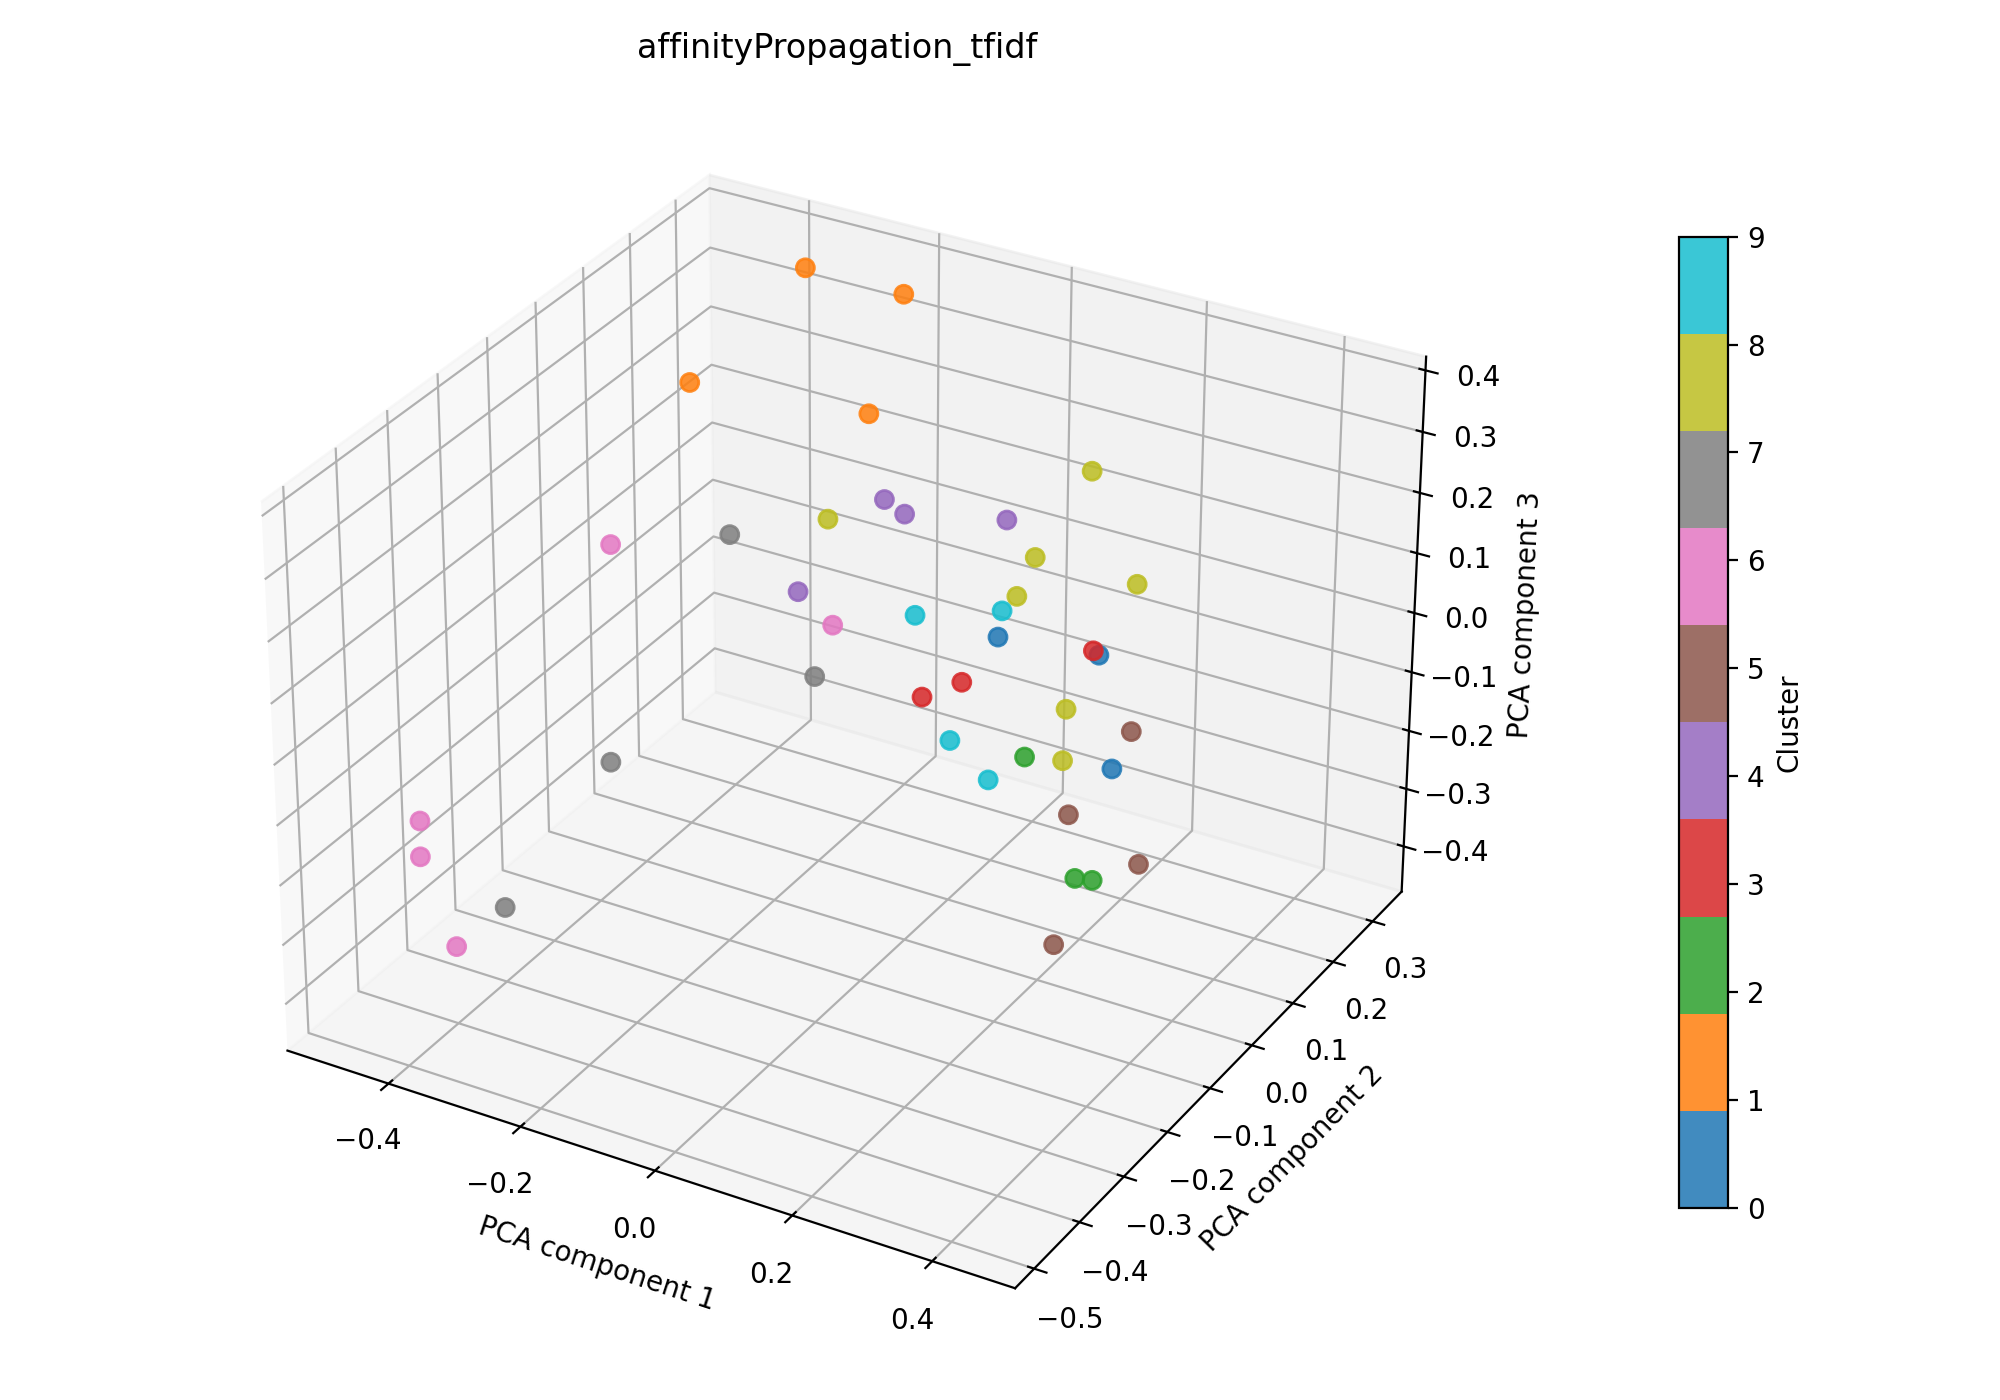
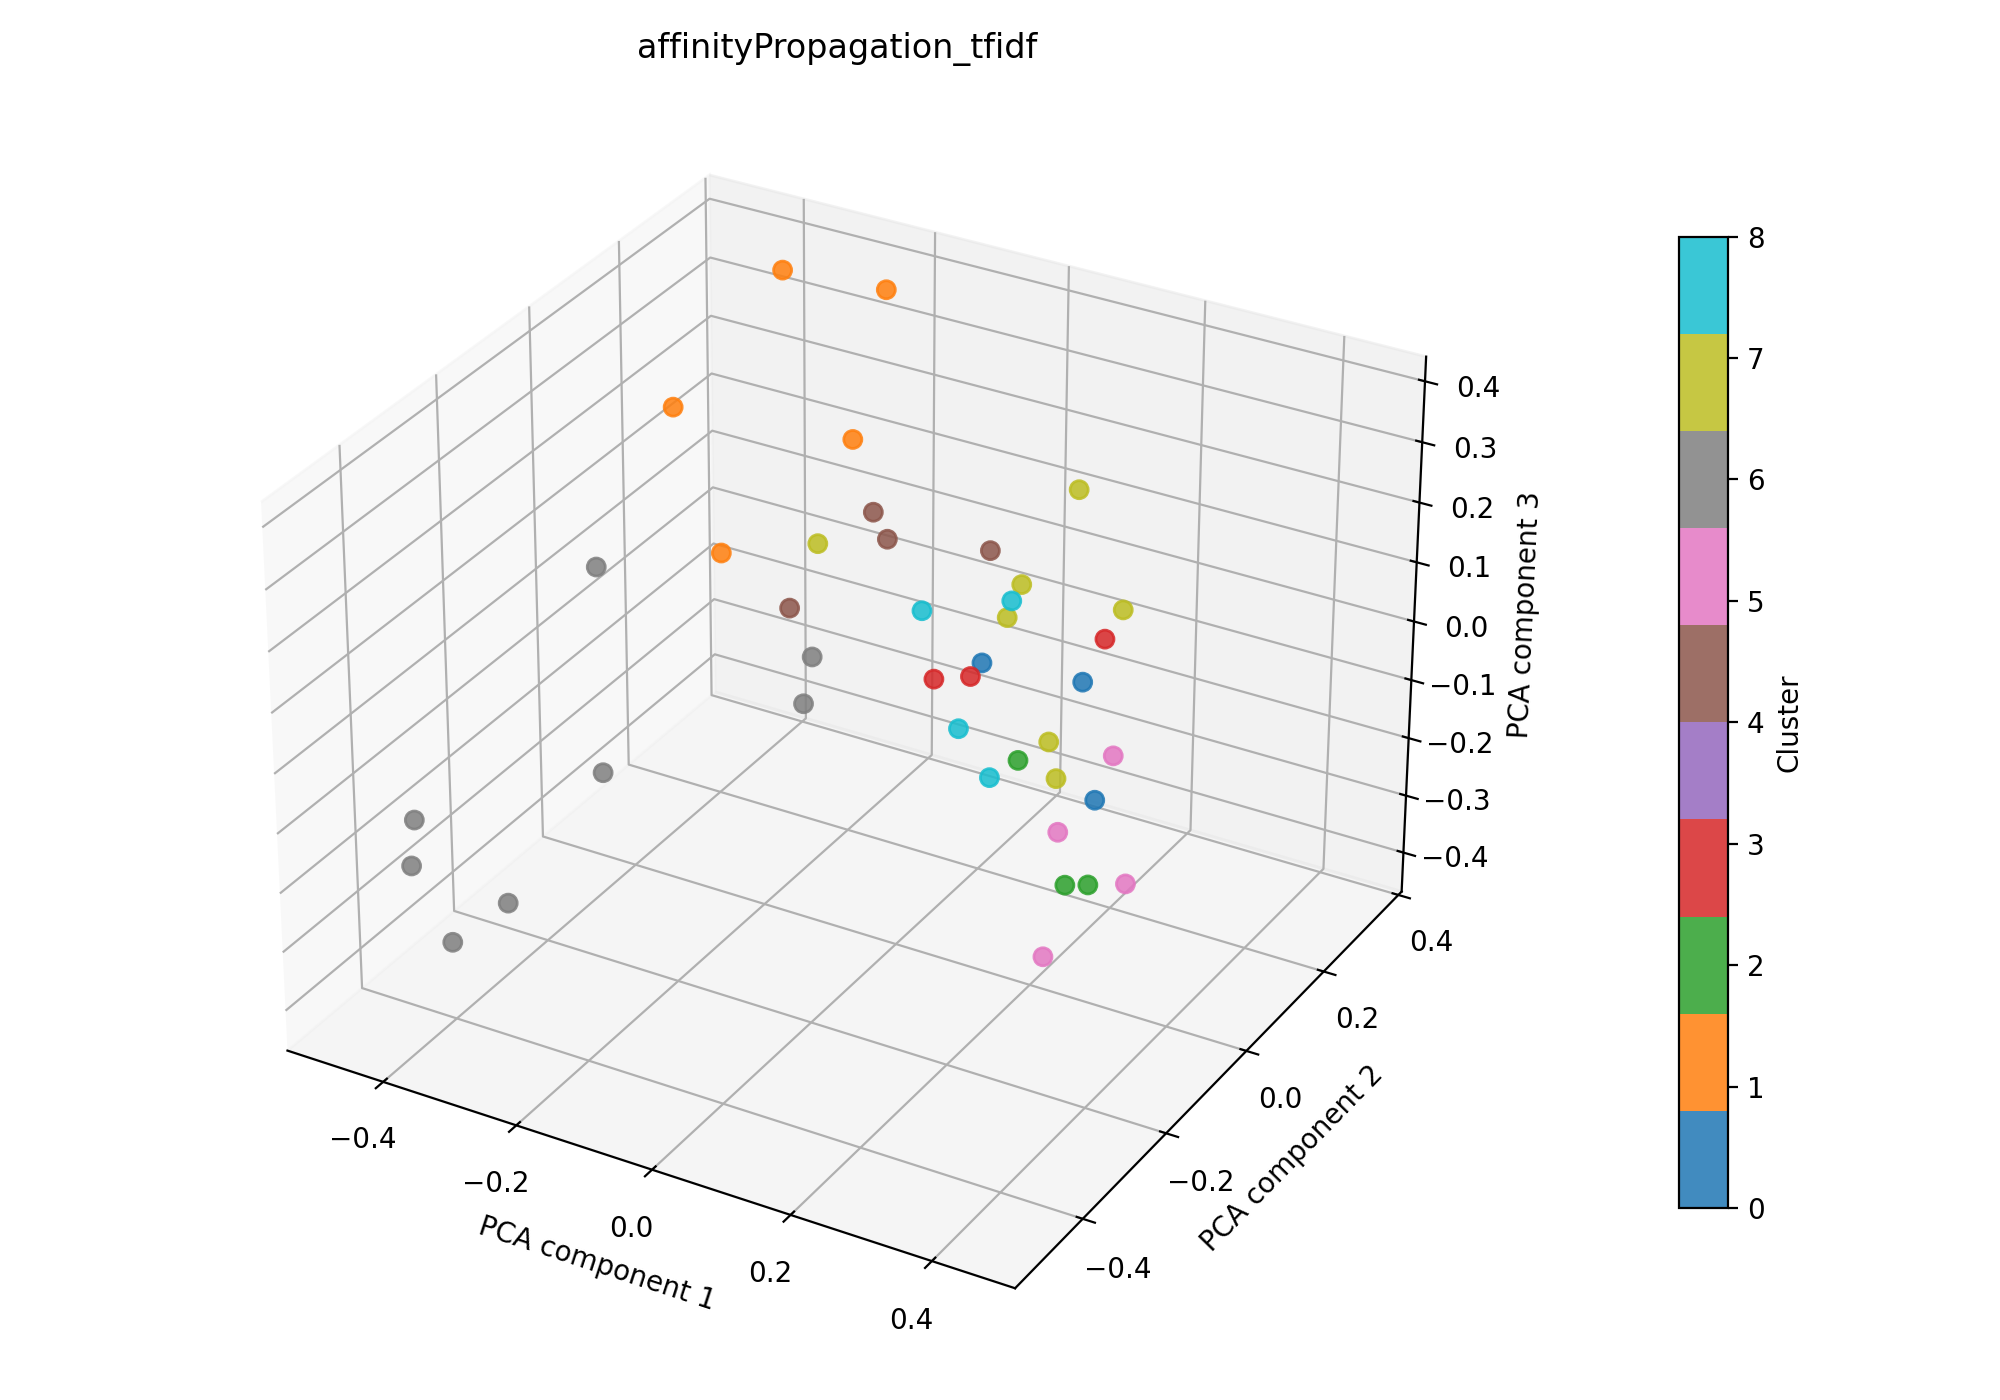
docs: update affinity 41

diff --git a/experiments/affinityPropagation_tfidf/results_41/affinityPropagation_tfidf_pca.html b/experiments/affinityPropagation_tfidf/results_41/affinityPropagation_tfidf_pca.html
@@ -2,6 +2,6 @@
 <head><meta charset="utf-8" /></head>
 <body>
     <div>                        <script>window.PlotlyConfig = {MathJaxConfig: 'local'};</script>
-        <script charset="utf-8" src="https://cdn.plot.ly/plotly-3.4.0.min.js" integrity="sha256-KEmPoupLpFyGMyGAiOsiNDbKDKAvxXAn/W+oQa0ZAfk=" crossorigin="anonymous"></script>                <div id="8c4570bc-1a3f-4afd-989a-b65e2cfe0deb" class="plotly-graph-div" style="height:100%; width:100%;"></div>            <script>                window.PLOTLYENV=window.PLOTLYENV || {};                                if (document.getElementById("8c4570bc-1a3f-4afd-989a-b65e2cfe0deb")) {                    Plotly.newPlot(                        "8c4570bc-1a3f-4afd-989a-b65e2cfe0deb",                        [{"marker":{"color":["#19D3F3","#EF553B","#FF97FF","#636EFA","#EF553B","#FF97FF","#FECB52","#FF97FF","#636EFA","#00CC96","#00CC96","#636EFA","#FF6692","#AB63FA","#FFA15A","#19D3F3","#FF97FF","#FECB52","#EF553B","#B6E880","#B6E880","#FFA15A","#00CC96","#B6E880","#AB63FA","#FFA15A","#FFA15A","#19D3F3","#AB63FA","#FF6692","#FF6692","#FF6692","#B6E880","#FF97FF","#FF6692","#FF97FF","#FF97FF","#FECB52","#EF553B","#19D3F3","#FECB52"],"opacity":0.85,"size":6},"mode":"markers","x":{"dtype":"f4","bdata":"eveJPjliu77jPWo+KWcOPku23b48s9A9fT+BPpbLVz21pjI+rpc4PpO7oj42spY8EBPlvlZZij6G\u002f1687jQpPslvHr7z8Y0+XLRRvvKIeL6LtgO+P9fCvVfKZT5ckqO+aIXlPgNXFb46jw++8f9cPiV5jD7pofm+6+nhvvaudr6JRoS+TJX1PQ0Qxr73yCc+EvW8Pe5xpj5a3VC+p2NPPnaeSD4="},"y":{"dtype":"f4","bdata":"bjwBPnoQoj4MIMA73UhuPs5UHj4MC8M9BJJNvij9Wz4+YFk+WHGzuxMDgr3F1zs+Qi3JuRAEv75pnIA+D+SLPqWWaD1DvqW+RjiaPgYE97xLqjy8mt7APRliPz3YUTq+seKQvn95XT6Ozfi8vkpUPKDilr4\u002f1bS+Nd\u002fRvuUIRj7hbPe+c5J0PpvH1L4ZM5A+mtFsPuBxk75Ic2I+UiWDPc1ejb4="},"z":{"dtype":"f4","bdata":"mA2wvpn4sz5hO8y9MP3LvSkUcD5japo9WohyPOLTTD2pFYq+BdzQveyWZL6cZJq96DtVPdPkiD5nro89X7N+vhQRGD5Jmiw+IQ25Pl9ZGT69Z4G9YlI0PvomqL44PyG+jjKtPlOVez39P7I9c\u002fnXvo+udj5VDoS+3ocSvomqEr5MPTK+20ZMPoYLqr4hUjO7ny9TvrLDuj44uFY+h690vjOcnj4="},"type":"scatter3d"}],                        {"template":{"data":{"histogram2dcontour":[{"type":"histogram2dcontour","colorbar":{"outlinewidth":0,"ticks":""},"colorscale":[[0.0,"#0d0887"],[0.1111111111111111,"#46039f"],[0.2222222222222222,"#7201a8"],[0.3333333333333333,"#9c179e"],[0.4444444444444444,"#bd3786"],[0.5555555555555556,"#d8576b"],[0.6666666666666666,"#ed7953"],[0.7777777777777778,"#fb9f3a"],[0.8888888888888888,"#fdca26"],[1.0,"#f0f921"]]}],"choropleth":[{"type":"choropleth","colorbar":{"outlinewidth":0,"ticks":""}}],"histogram2d":[{"type":"histogram2d","colorbar":{"outlinewidth":0,"ticks":""},"colorscale":[[0.0,"#0d0887"],[0.1111111111111111,"#46039f"],[0.2222222222222222,"#7201a8"],[0.3333333333333333,"#9c179e"],[0.4444444444444444,"#bd3786"],[0.5555555555555556,"#d8576b"],[0.6666666666666666,"#ed7953"],[0.7777777777777778,"#fb9f3a"],[0.8888888888888888,"#fdca26"],[1.0,"#f0f921"]]}],"heatmap":[{"type":"heatmap","colorbar":{"outlinewidth":0,"ticks":""},"colorscale":[[0.0,"#0d0887"],[0.1111111111111111,"#46039f"],[0.2222222222222222,"#7201a8"],[0.3333333333333333,"#9c179e"],[0.4444444444444444,"#bd3786"],[0.5555555555555556,"#d8576b"],[0.6666666666666666,"#ed7953"],[0.7777777777777778,"#fb9f3a"],[0.8888888888888888,"#fdca26"],[1.0,"#f0f921"]]}],"contourcarpet":[{"type":"contourcarpet","colorbar":{"outlinewidth":0,"ticks":""}}],"contour":[{"type":"contour","colorbar":{"outlinewidth":0,"ticks":""},"colorscale":[[0.0,"#0d0887"],[0.1111111111111111,"#46039f"],[0.2222222222222222,"#7201a8"],[0.3333333333333333,"#9c179e"],[0.4444444444444444,"#bd3786"],[0.5555555555555556,"#d8576b"],[0.6666666666666666,"#ed7953"],[0.7777777777777778,"#fb9f3a"],[0.8888888888888888,"#fdca26"],[1.0,"#f0f921"]]}],"surface":[{"type":"surface","colorbar":{"outlinewidth":0,"ticks":""},"colorscale":[[0.0,"#0d0887"],[0.1111111111111111,"#46039f"],[0.2222222222222222,"#7201a8"],[0.3333333333333333,"#9c179e"],[0.4444444444444444,"#bd3786"],[0.5555555555555556,"#d8576b"],[0.6666666666666666,"#ed7953"],[0.7777777777777778,"#fb9f3a"],[0.8888888888888888,"#fdca26"],[1.0,"#f0f921"]]}],"mesh3d":[{"type":"mesh3d","colorbar":{"outlinewidth":0,"ticks":""}}],"scatter":[{"fillpattern":{"fillmode":"overlay","size":10,"solidity":0.2},"type":"scatter"}],"parcoords":[{"type":"parcoords","line":{"colorbar":{"outlinewidth":0,"ticks":""}}}],"scatterpolargl":[{"type":"scatterpolargl","marker":{"colorbar":{"outlinewidth":0,"ticks":""}}}],"bar":[{"error_x":{"color":"#2a3f5f"},"error_y":{"color":"#2a3f5f"},"marker":{"line":{"color":"#E5ECF6","width":0.5},"pattern":{"fillmode":"overlay","size":10,"solidity":0.2}},"type":"bar"}],"scattergeo":[{"type":"scattergeo","marker":{"colorbar":{"outlinewidth":0,"ticks":""}}}],"scatterpolar":[{"type":"scatterpolar","marker":{"colorbar":{"outlinewidth":0,"ticks":""}}}],"histogram":[{"marker":{"pattern":{"fillmode":"overlay","size":10,"solidity":0.2}},"type":"histogram"}],"scattergl":[{"type":"scattergl","marker":{"colorbar":{"outlinewidth":0,"ticks":""}}}],"scatter3d":[{"type":"scatter3d","line":{"colorbar":{"outlinewidth":0,"ticks":""}},"marker":{"colorbar":{"outlinewidth":0,"ticks":""}}}],"scattermap":[{"type":"scattermap","marker":{"colorbar":{"outlinewidth":0,"ticks":""}}}],"scattermapbox":[{"type":"scattermapbox","marker":{"colorbar":{"outlinewidth":0,"ticks":""}}}],"scatterternary":[{"type":"scatterternary","marker":{"colorbar":{"outlinewidth":0,"ticks":""}}}],"scattercarpet":[{"type":"scattercarpet","marker":{"colorbar":{"outlinewidth":0,"ticks":""}}}],"carpet":[{"aaxis":{"endlinecolor":"#2a3f5f","gridcolor":"white","linecolor":"white","minorgridcolor":"white","startlinecolor":"#2a3f5f"},"baxis":{"endlinecolor":"#2a3f5f","gridcolor":"white","linecolor":"white","minorgridcolor":"white","startlinecolor":"#2a3f5f"},"type":"carpet"}],"table":[{"cells":{"fill":{"color":"#EBF0F8"},"line":{"color":"white"}},"header":{"fill":{"color":"#C8D4E3"},"line":{"color":"white"}},"type":"table"}],"barpolar":[{"marker":{"line":{"color":"#E5ECF6","width":0.5},"pattern":{"fillmode":"overlay","size":10,"solidity":0.2}},"type":"barpolar"}],"pie":[{"automargin":true,"type":"pie"}]},"layout":{"autotypenumbers":"strict","colorway":["#636efa","#EF553B","#00cc96","#ab63fa","#FFA15A","#19d3f3","#FF6692","#B6E880","#FF97FF","#FECB52"],"font":{"color":"#2a3f5f"},"hovermode":"closest","hoverlabel":{"align":"left"},"paper_bgcolor":"white","plot_bgcolor":"#E5ECF6","polar":{"bgcolor":"#E5ECF6","angularaxis":{"gridcolor":"white","linecolor":"white","ticks":""},"radialaxis":{"gridcolor":"white","linecolor":"white","ticks":""}},"ternary":{"bgcolor":"#E5ECF6","aaxis":{"gridcolor":"white","linecolor":"white","ticks":""},"baxis":{"gridcolor":"white","linecolor":"white","ticks":""},"caxis":{"gridcolor":"white","linecolor":"white","ticks":""}},"coloraxis":{"colorbar":{"outlinewidth":0,"ticks":""}},"colorscale":{"sequential":[[0.0,"#0d0887"],[0.1111111111111111,"#46039f"],[0.2222222222222222,"#7201a8"],[0.3333333333333333,"#9c179e"],[0.4444444444444444,"#bd3786"],[0.5555555555555556,"#d8576b"],[0.6666666666666666,"#ed7953"],[0.7777777777777778,"#fb9f3a"],[0.8888888888888888,"#fdca26"],[1.0,"#f0f921"]],"sequentialminus":[[0.0,"#0d0887"],[0.1111111111111111,"#46039f"],[0.2222222222222222,"#7201a8"],[0.3333333333333333,"#9c179e"],[0.4444444444444444,"#bd3786"],[0.5555555555555556,"#d8576b"],[0.6666666666666666,"#ed7953"],[0.7777777777777778,"#fb9f3a"],[0.8888888888888888,"#fdca26"],[1.0,"#f0f921"]],"diverging":[[0,"#8e0152"],[0.1,"#c51b7d"],[0.2,"#de77ae"],[0.3,"#f1b6da"],[0.4,"#fde0ef"],[0.5,"#f7f7f7"],[0.6,"#e6f5d0"],[0.7,"#b8e186"],[0.8,"#7fbc41"],[0.9,"#4d9221"],[1,"#276419"]]},"xaxis":{"gridcolor":"white","linecolor":"white","ticks":"","title":{"standoff":15},"zerolinecolor":"white","automargin":true,"zerolinewidth":2},"yaxis":{"gridcolor":"white","linecolor":"white","ticks":"","title":{"standoff":15},"zerolinecolor":"white","automargin":true,"zerolinewidth":2},"scene":{"xaxis":{"backgroundcolor":"#E5ECF6","gridcolor":"white","linecolor":"white","showbackground":true,"ticks":"","zerolinecolor":"white","gridwidth":2},"yaxis":{"backgroundcolor":"#E5ECF6","gridcolor":"white","linecolor":"white","showbackground":true,"ticks":"","zerolinecolor":"white","gridwidth":2},"zaxis":{"backgroundcolor":"#E5ECF6","gridcolor":"white","linecolor":"white","showbackground":true,"ticks":"","zerolinecolor":"white","gridwidth":2}},"shapedefaults":{"line":{"color":"#2a3f5f"}},"annotationdefaults":{"arrowcolor":"#2a3f5f","arrowhead":0,"arrowwidth":1},"geo":{"bgcolor":"white","landcolor":"#E5ECF6","subunitcolor":"white","showland":true,"showlakes":true,"lakecolor":"white"},"title":{"x":0.05},"mapbox":{"style":"light"}}},"title":{"text":"affinityPropagation_tfidf"}},                        {"responsive": true}                    )                };            </script>        </div>
[1 lines of base64/hex data omitted]
 </body>
 </html>

diff --git a/experiments/affinityPropagation_tfidf/results_41/affinityPropagation_tfidf_41.md b/experiments/affinityPropagation_tfidf/results_41/affinityPropagation_tfidf_41.md
@@ -37,7 +37,7 @@ tfidf:
   stop_words: english
   extra_stop_words: ["hsi"]
   use_lsa: true
-  lsa_components: 100
+  lsa_components: 40
 
 interpretation:
   top_n_terms: 10
@@ -74,9 +74,9 @@ Die Metriken werden in `best_affinityPropagation_tfidf_summary.json` gespeichert
 
 | Metrik | Wert | Einordnung |
 | --- | ---: | --- |
-| Silhouette Score | 0.0943 | schwach getrennte Cluster |
-| Davies–Bouldin Index | 2.0359 | mittlere bis deutliche Überlappung  |
-| Calinski–Harabasz Index | 2.0412 | niedriger bis schwache Clusterstruktur |
+| Silhouette Score |  0.0911928117275238 | schwach getrennte Cluster |
+| Davies–Bouldin Index | 2.0933003434378477 | mittlere bis deutliche Überlappung  |
+| Calinski–Harabasz Index | 2.054876870442089 | niedriger bis schwache Clusterstruktur |
 
 #### Cluster-Interpretation
 
@@ -85,15 +85,14 @@ Die Top‑Wörter (Top‑10) pro Cluster, berechnet aus den nicht reduzierten TF
 | Cluster | Top‑Wörter |
 | ---: | --- |
 | 0 | biological, high, proposed, tissue, resolution, images, tissues, using, use, different |
-| 1 | patients, studies, vivo, systems, multispectral, reported, small, surgical, systematic, current |
+| 1 | patients, systems, studies, vivo, multispectral, systematic, lesions, tissue, small, systematic review |
 | 2 | disease, disorders, diseases, field, data, monitoring, overview, advances, current, clinical |
 | 3 | medical, medical applications, research, challenges, clinical, limitations, field, future, study, technology |
 | 4 | perfusion, clinical, surgery, measurements, literature, gastrointestinal, promising, results, spectral imaging, tissue |
 | 5 | brain, tissue, technology, information, biological, diagnosis, recent, acquisition, disease diagnosis, disease |
-| 6 | cancer, studies, accuracy, detection, meta, sensitivity, meta analysis, techniques, computer aided, aided |
-| 7 | skin, cancer, skin cancer, color, light, compared, detection, systematic, multispectral, systematic review |
-| 8 | multispectral, vision, technology, spectroscopy, capabilities, technologies, different, based, lesions, multispectral imaging |
-| 9 | learning, medical, images, algorithms, techniques, image, data, various, machine, systems |
+| 6 | cancer, studies, detection, accuracy, skin, computer aided, aided, sensitivity, computer, color |
+| 7 | multispectral, vision, technology, spectroscopy, capabilities, technologies, different, based, lesions, multispectral imaging |
+| 8 | learning, medical, images, algorithms, techniques, image, data, various, machine, systems |
 
 ### Evaluation
 
